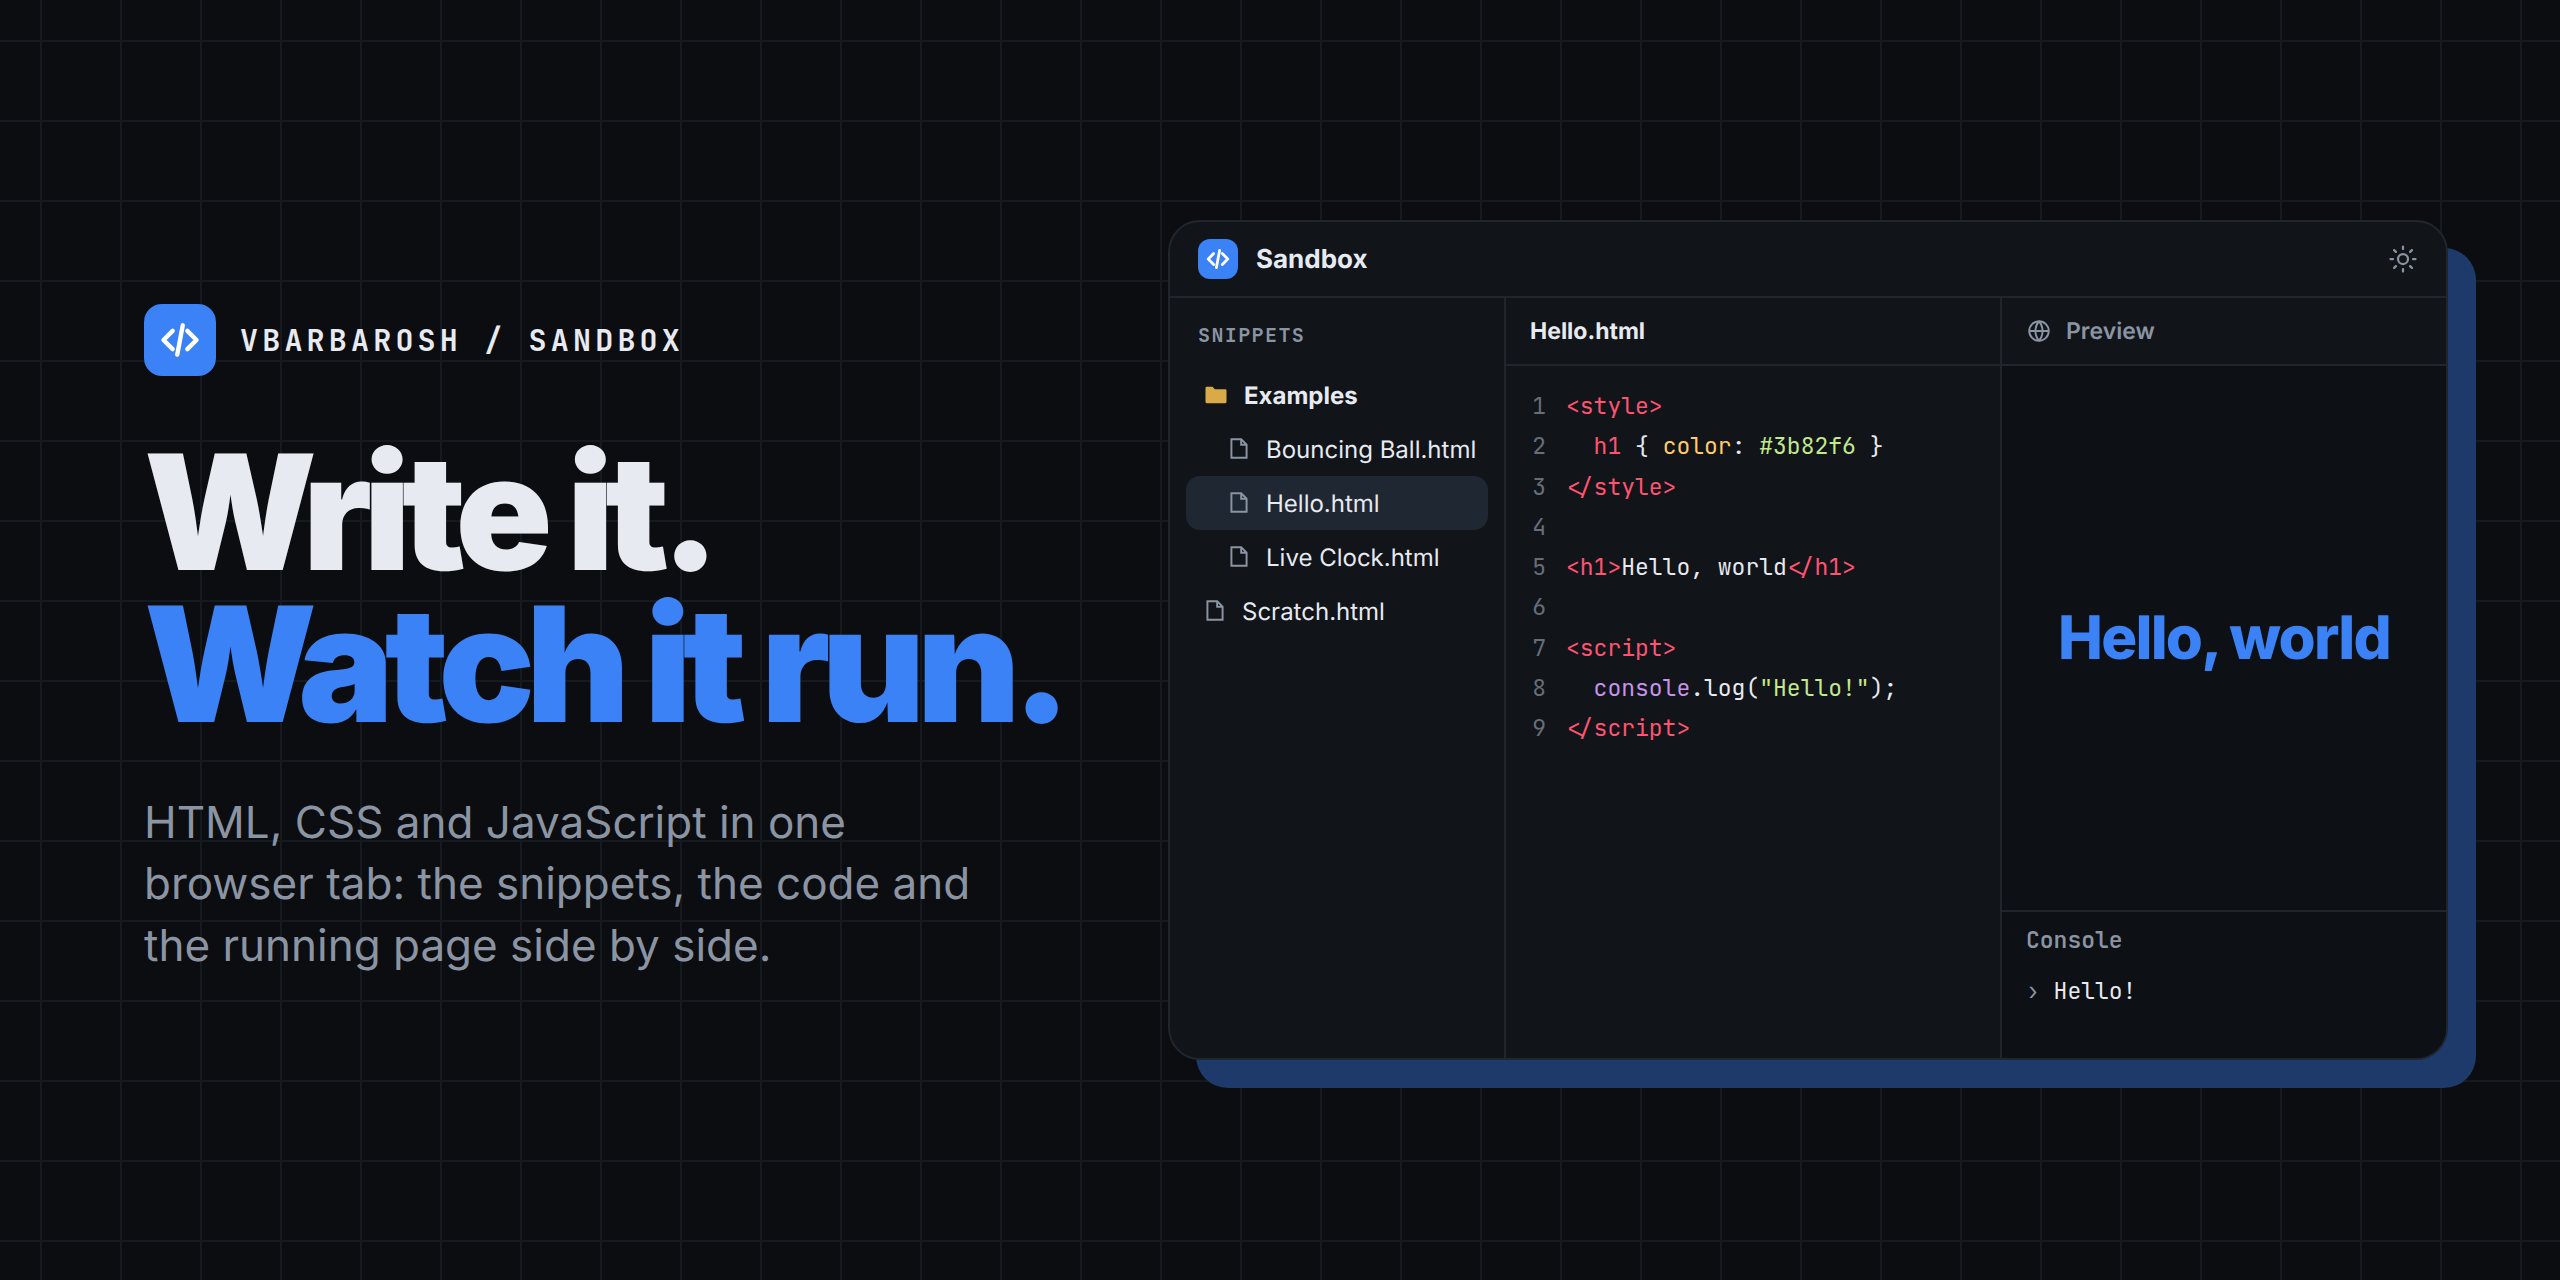
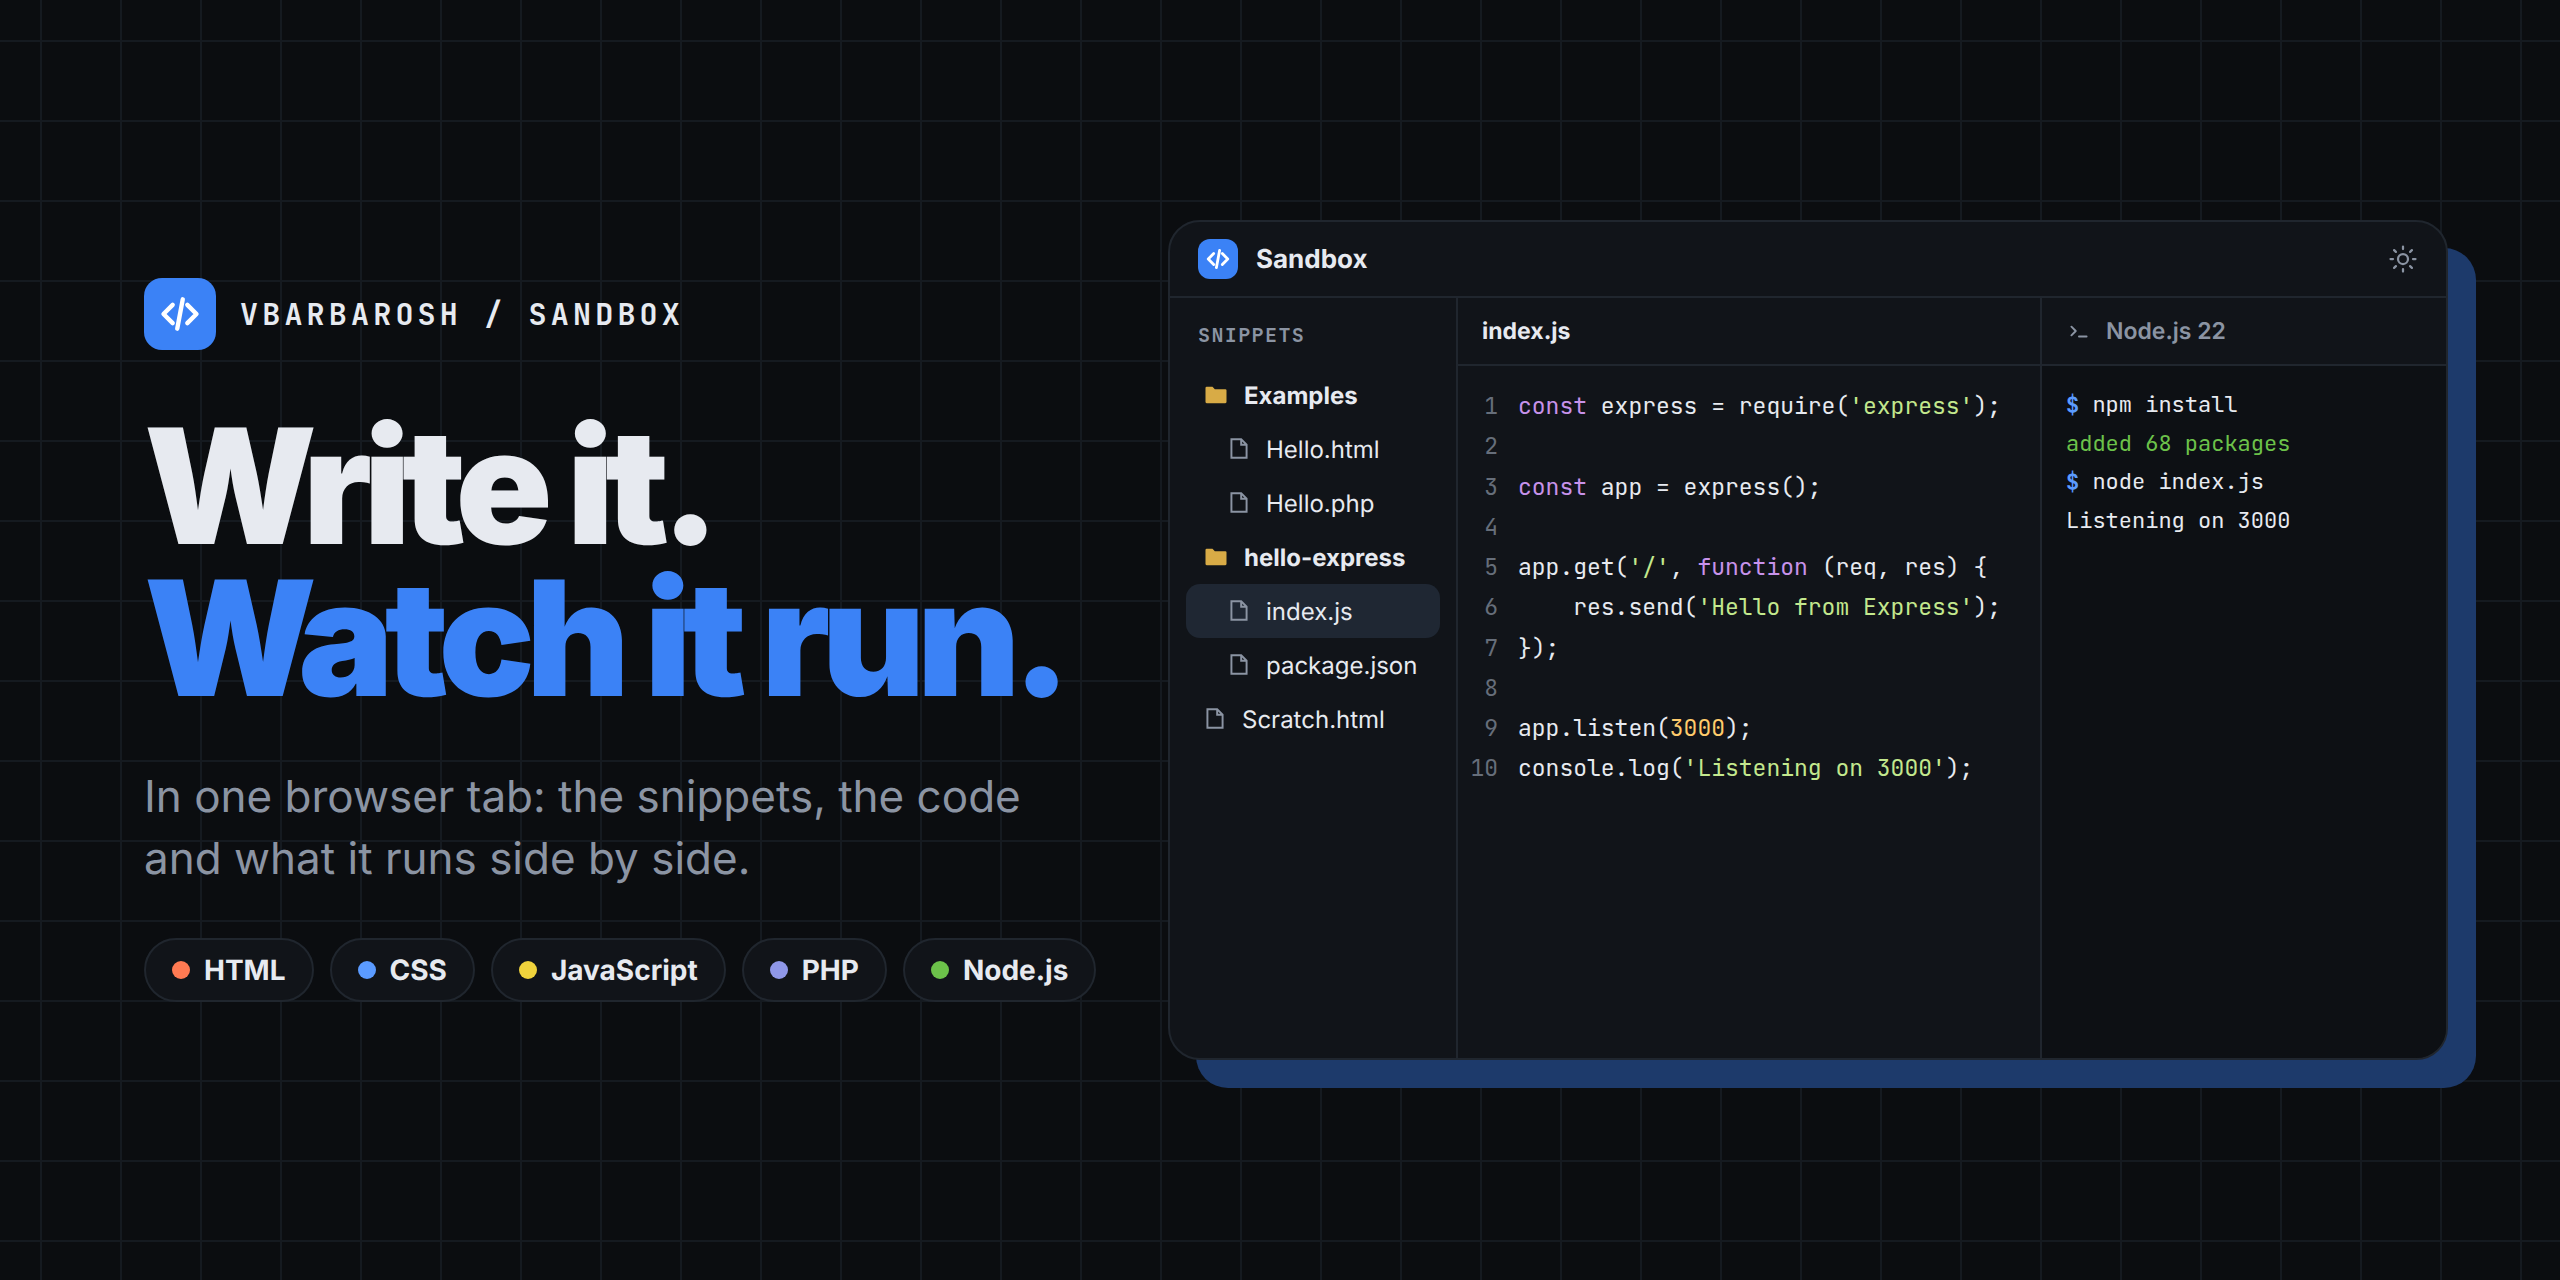
readme, cover, about: the sandbox runs PHP and Node.js too

diff --git a/img/cover.html b/img/cover.html
@@ -34,6 +34,12 @@
     --string: #a11;
     --keyword: #708;
     --console: #f4f6f8;
+    --html: #e5532d;
+    --css: #2f6fd8;
+    --js: #c9a200;
+    --php: #6a72c8;
+    --node: #3f9142;
+    --prompt: #3b82f6;
 }
 
 html.dark {
@@ -54,6 +60,12 @@ html.dark {
     --string: #c3e88d;
     --keyword: #c792ea;
     --console: #0d1014;
+    --html: #ff7a52;
+    --css: #5b9bff;
+    --js: #f0d33c;
+    --php: #8f97e8;
+    --node: #6cc24a;
+    --prompt: #5b9bff;
 }
 
 * { box-sizing: border-box; }
@@ -120,11 +132,28 @@ h1 span { display: block; color: var(--accent); }
 
 .lede {
     max-width: 440px;
-    margin: 0;
+    margin: 0 0 24px;
     color: var(--muted);
     font-size: 22px;
     line-height: 1.4;
 }
+
+.chips { display: flex; flex-wrap: wrap; gap: 8px; }
+
+.chip {
+    display: flex;
+    align-items: center;
+    gap: 7px;
+    height: 32px;
+    padding: 0 13px;
+    border: 1px solid var(--border);
+    border-radius: 999px;
+    background: var(--panel);
+    font-size: 14px;
+    font-weight: 700;
+}
+
+.chip i { width: 9px; height: 9px; border-radius: 50%; }
 
 .window {
     display: flex;
@@ -157,7 +186,7 @@ h1 span { display: block; color: var(--accent); }
 .main { display: flex; flex: 1; min-height: 0; }
 
 .sidebar {
-    width: 168px;
+    width: 144px;
     flex: none;
     padding: 10px 8px;
     border-right: 1px solid var(--border);
@@ -194,7 +223,7 @@ h1 span { display: block; color: var(--accent); }
 
 .pane { display: flex; flex-direction: column; min-width: 0; }
 
-.editor { width: 248px; flex: none; border-right: 1px solid var(--border); }
+.editor { width: 292px; flex: none; border-right: 1px solid var(--border); }
 
 .preview { flex: 1; }
 
@@ -258,6 +287,22 @@ pre {
 .console .line { padding: 4px 12px; }
 
 .console .line span { color: var(--fg-muted); }
+
+.term {
+    flex: 1;
+    margin: 0;
+    padding: 10px 12px;
+    background: var(--console);
+    font-size: 11px;
+    line-height: 1.75;
+    white-space: pre;
+}
+
+.term .p { color: var(--prompt); font-weight: 700; }
+
+.term .m { color: var(--fg-muted); }
+
+.term .ok { color: var(--node); }
 </style>
 </head>
 <body>
@@ -270,7 +315,14 @@ pre {
             vbarbarosh / sandbox
         </div>
         <h1>Write it.<span>Watch it run.</span></h1>
-        <p class="lede">HTML, CSS and JavaScript in one browser tab: the snippets, the code and the running page side by side.</p>
+        <p class="lede">In one browser tab: the snippets, the code and what it runs side by side.</p>
+        <div class="chips">
+            <div class="chip"><i style="background: var(--html)"></i>HTML</div>
+            <div class="chip"><i style="background: var(--css)"></i>CSS</div>
+            <div class="chip"><i style="background: var(--js)"></i>JavaScript</div>
+            <div class="chip"><i style="background: var(--php)"></i>PHP</div>
+            <div class="chip"><i style="background: var(--node)"></i>Node.js</div>
+        </div>
     </div>
     <div class="window">
         <div class="topbar">
@@ -289,15 +341,23 @@ pre {
                 </div>
                 <div class="item nested">
                     <svg width="13" height="13" viewBox="0 0 24 24" fill="none" stroke="currentColor" stroke-width="1.8"><path d="M14 3v5h5M5 3h9l5 5v12H5z"/></svg>
-                    Bouncing Ball.html
-                </div>
-                <div class="item nested active">
-                    <svg width="13" height="13" viewBox="0 0 24 24" fill="none" stroke="currentColor" stroke-width="1.8"><path d="M14 3v5h5M5 3h9l5 5v12H5z"/></svg>
                     Hello.html
                 </div>
                 <div class="item nested">
                     <svg width="13" height="13" viewBox="0 0 24 24" fill="none" stroke="currentColor" stroke-width="1.8"><path d="M14 3v5h5M5 3h9l5 5v12H5z"/></svg>
-                    Live Clock.html
+                    Hello.php
+                </div>
+                <div class="item folder">
+                    <svg width="14" height="14" viewBox="0 0 24 24" fill="currentColor"><path d="M3 6a1 1 0 0 1 1-1h5l2 2h9a1 1 0 0 1 1 1v10a1 1 0 0 1-1 1H4a1 1 0 0 1-1-1z"/></svg>
+                    hello-express
+                </div>
+                <div class="item nested active">
+                    <svg width="13" height="13" viewBox="0 0 24 24" fill="none" stroke="currentColor" stroke-width="1.8"><path d="M14 3v5h5M5 3h9l5 5v12H5z"/></svg>
+                    index.js
+                </div>
+                <div class="item nested">
+                    <svg width="13" height="13" viewBox="0 0 24 24" fill="none" stroke="currentColor" stroke-width="1.8"><path d="M14 3v5h5M5 3h9l5 5v12H5z"/></svg>
+                    package.json
                 </div>
                 <div class="item">
                     <svg width="13" height="13" viewBox="0 0 24 24" fill="none" stroke="currentColor" stroke-width="1.8"><path d="M14 3v5h5M5 3h9l5 5v12H5z"/></svg>
@@ -305,27 +365,27 @@ pre {
                 </div>
             </div>
             <div class="pane editor">
-                <div class="pane-head"><b>Hello.html</b></div>
-<pre class="mono"><span class="ln">1</span><span class="t">&lt;style&gt;</span>
-<span class="ln">2</span>  <span class="t">h1</span> { <span class="a">color</span>: <span class="s">#3b82f6</span> }
-<span class="ln">3</span><span class="t">&lt;/style&gt;</span>
+                <div class="pane-head"><b>index.js</b></div>
+<pre class="mono"><span class="ln">1</span><span class="k">const</span> express = require(<span class="s">'express'</span>);
+<span class="ln">2</span>
+<span class="ln">3</span><span class="k">const</span> app = express();
 <span class="ln">4</span>
-<span class="ln">5</span><span class="t">&lt;h1&gt;</span>Hello, world<span class="t">&lt;/h1&gt;</span>
-<span class="ln">6</span>
-<span class="ln">7</span><span class="t">&lt;script&gt;</span>
-<span class="ln">8</span>  <span class="k">console</span>.log(<span class="s">"Hello!"</span>);
-<span class="ln">9</span><span class="t">&lt;/script&gt;</span></pre>
+<span class="ln">5</span>app.get(<span class="s">'/'</span>, <span class="k">function</span> (req, res) {
+<span class="ln">6</span>    res.send(<span class="s">'Hello from Express'</span>);
+<span class="ln">7</span>});
+<span class="ln">8</span>
+<span class="ln">9</span>app.listen(<span class="a">3000</span>);
+<span class="ln">10</span>console.log(<span class="s">'Listening on 3000'</span>);</pre>
             </div>
             <div class="pane preview">
                 <div class="pane-head">
-                    <svg width="13" height="13" viewBox="0 0 24 24" fill="none" stroke="currentColor" stroke-width="1.8"><circle cx="12" cy="12" r="9"/><path d="M3 12h18M12 3a14 14 0 0 1 0 18M12 3a14 14 0 0 0 0 18"/></svg>
-                    Preview
+                    <svg width="13" height="13" viewBox="0 0 24 24" fill="none" stroke="currentColor" stroke-width="1.8" stroke-linecap="round" stroke-linejoin="round"><path d="m5 8 4 4-4 4M12 17h7"/></svg>
+                    Node.js 22
                 </div>
-                <div class="page"><h2>Hello, world</h2></div>
-                <div class="console mono">
-                    <div class="pane-head">Console</div>
-                    <div class="line"><span>›</span> Hello!</div>
-                </div>
+<pre class="term mono"><span class="p">$</span> npm install
+<span class="ok">added 68 packages</span>
+<span class="p">$</span> node index.js
+Listening on 3000</pre>
             </div>
         </div>
     </div>

diff --git a/src/index.html b/src/index.html
@@ -404,7 +404,7 @@ isolation_start();
       <div class="logo">&lt;/&gt;</div>
       <div>
         <h2 id="about-title">Sandbox<span class="about-version" id="about-version"></span></h2>
-        <p>A sandbox in one browser tab: write HTML, CSS and JavaScript and watch it run beside the code.</p>
+        <p>A sandbox in one browser tab: write HTML, CSS, JavaScript, PHP or a Node.js project and watch it run beside the code.</p>
       </div>
     </div>
     <div class="modal-b about-b">

diff --git a/docs/README.md b/docs/README.md
@@ -27,6 +27,9 @@ previews and fonts load from CDNs, so it needs the network.
   each change:
   - HTML runs in a sandboxed frame; its console output and uncaught errors
     show in the console under the preview;
+  - PHP runs in the page, PHP 8.4 built to WebAssembly
+    ([php-wasm](https://github.com/seanmorris/php-wasm)): the preview shows
+    what the file prints;
   - Markdown and MDX are rendered;
   - JSON opens in a JSON editor;
   - draw.io and Excalidraw files are edited as diagrams;

diff --git a/README.md b/README.md
@@ -5,7 +5,7 @@
 
 # sandbox
 
-A sandbox in one browser tab: write HTML, CSS and JavaScript and watch it run beside the code.
+A sandbox in one browser tab: write HTML, CSS, JavaScript, PHP or a Node.js project and watch it run beside the code.
 
 **[Website](https://vbarbarosh.github.io/sandbox/src/)**
 
